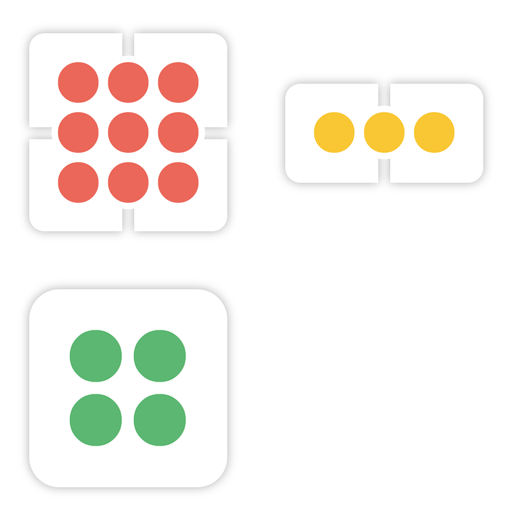
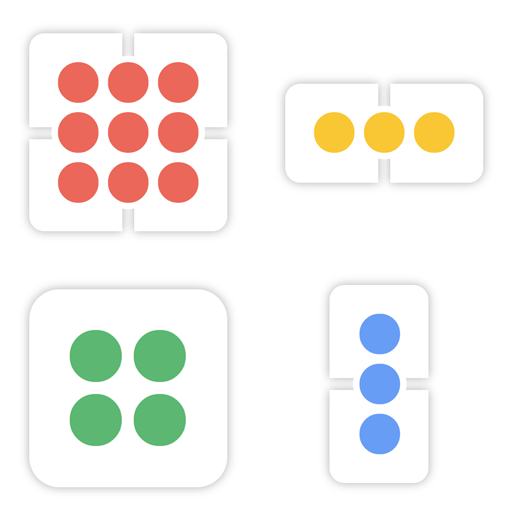
[update] index.html

diff --git a/index.html b/index.html
@@ -67,6 +67,11 @@
                 </div>
                 <div class="contents-app under-development">
                     <div class="thumbnail">
+                        <img src="img/step.png">
+                    </div>
+                </div>
+                <div class="contents-app under-development">
+                    <div class="thumbnail">
                         <div id="snow"></div>
                     </div>
                 </div>

diff --git a/js/common.js b/js/common.js
@@ -4,11 +4,13 @@ var appName = [
     'Icon 3x3',
     'Planet Color Picker',
     '???',
+    '???',
 ];
 var keyword = [
     ['widget', 'list calendar', 'grid calendar'],
-    ['widget', 'shortcut icon', '3x3', '3x1', '2x2'],
+    ['widget', 'shortcut icon', '3x3', '3x1', '2x2', '1x3'],
     ['library', 'github', 'open source'],
+    ['game', 'widget', 'casual'],
     ['game', 'puzzle', 'kill time'],
 ];
 var featureCalendarAndMemo = [
